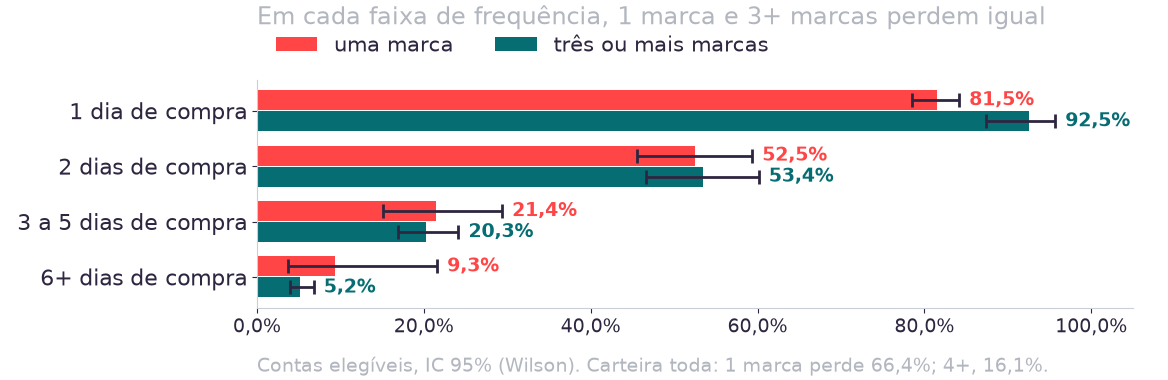
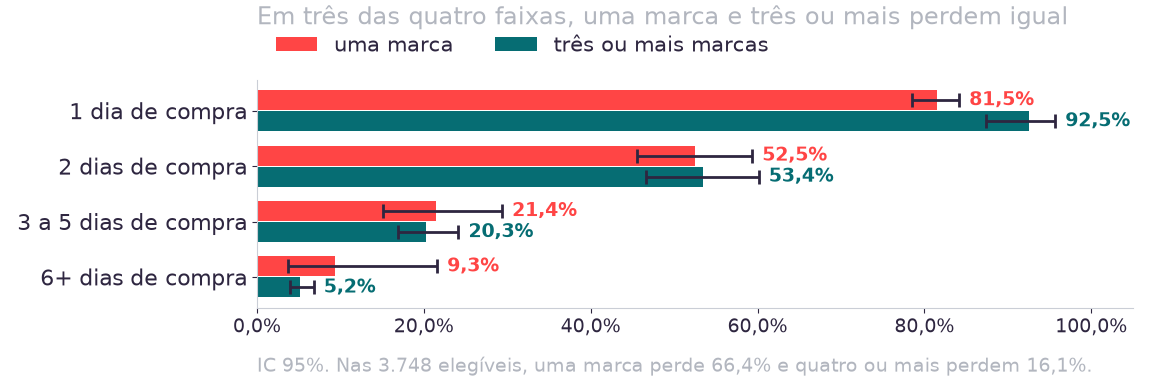
fix(aula04): correções da revisão final, leitura das estratificações, legendas e teste do clone

Changed region(s): [[0.2158, 0.9263, 0.9247, 0.9842], [0.2466, 0.0, 0.9247, 0.0868]]

diff --git a/materiais/aula04-material-de-apoio.html b/materiais/aula04-material-de-apoio.html
@@ -145,22 +145,22 @@
           </table>
         </div>
 
-        <p>A leitura direta é que quem mais perde compra menos vezes, com menos marcas e recebe
-        menos receita por conta. É perfil, e a palavra importa: a tabela descreve como os grupos
-        se diferenciam, sem dizer se essa diferença é a causa do churn ou se os dois fenômenos
-        compartilham uma terceira origem. A seção 4 mostra por que a diferença entre segmentos
-        não fecha o argumento sozinha.</p>
+        <p>A leitura direta é que quem mais perde compra menos vezes e com menos marcas, com uma
+        exceção: o setor público perde 58,1% com apenas 3 dias de compra e 3 marcas, o maior
+        índice da tabela mesmo sem o menor perfil de compra. É perfil, e a palavra importa: a
+        tabela descreve como os grupos se diferenciam, sem dizer se essa diferença é a causa do
+        churn ou se os dois fenômenos compartilham uma terceira origem. A seção 4 mostra por que a
+        diferença entre segmentos não fecha o argumento sozinha.</p>
 
         <p>A skill exige também declarar o que a tabela não mede. A conta mediana da carteira tem
         dois meses ativos em 24, e uma conta que comprou em um único mês não tem duas datas para
-        calcular intervalo entre compras. O intervalo mediano só existe para as contas com duas
-        ou mais datas distintas: das 3.748 elegíveis, essa condição restringe a coluna a 4.910
-        observações no conjunto ampliado usado no cálculo, um número que já mistura elegíveis e
-        não elegíveis porque o intervalo é calculado antes do corte de elegibilidade. Tratar
-        "periodicidade" como variável de entrada de um modelo, sem essa ressalva, produziria uma
-        coluna ausente para toda conta de compra única, e essa ausência carrega significado
-        próprio: marca uma conta com pouquíssima atividade, um fato sobre o comportamento da
-        conta e não uma falha de coleta.</p>
+        calcular intervalo entre compras. O intervalo mediano só existe para as contas com duas ou
+        mais datas distintas: na carteira inteira, de 8.282 contas, 4.910 satisfazem essa condição;
+        entre as 3.748 elegíveis, apenas 2.554 têm intervalo calculável, e as 1.194 restantes
+        compraram em um único dia dentro do painel. Tratar "periodicidade" como variável de entrada
+        de um modelo, sem essa ressalva, produziria uma coluna ausente para toda conta de compra
+        única, e essa ausência carrega significado próprio: marca uma conta com pouquíssima
+        atividade, um fato sobre o comportamento da conta e não uma falha de coleta.</p>
 
         <p>Duas colunas do cadastro completam o quadro sem entrar na tabela. O canal de aquisição
         tem um único valor distinto em toda a base, o que o torna inútil para qualquer corte por
@@ -346,13 +346,15 @@
           </table>
         </div>
 
-        <p>Em quatro dos cinco segmentos o Brasil tem prevalência menor ou igual à dos demais
-        países, e o único segmento em que a relação se inverte é o de contas globais, onde o
-        Brasil tem prevalência mais baixa. A explicação está na composição: 69,7% das contas
-        elegíveis do Brasil estão em mid market e setor público, os dois segmentos de prevalência
-        mais alta, contra 28,1% nos demais países. Uma comparação de Brasil contra o resto do
-        mundo sem controlar por segmento mede, em boa parte, a mistura de segmentos de cada
-        região: o efeito de país isolado é pequeno diante dessa composição.</p>
+        <p>Nos cinco segmentos, o Brasil tem prevalência menor que a dos demais países em dois
+        (contas globais, 18,6% contra 32,4%; grandes contas, 31,2% contra 35,6%) e maior em três
+        (mid market, 48,2% contra 45,0%; setor público, 60,1% contra 51,5%; small market, 72,6%
+        contra 41,0%). Nenhum desses cinco números isolados chega perto da diferença de 28,2%
+        contra 12,5% que separa o Brasil do México na carteira inteira, e a explicação está na
+        composição: 69,7% das contas elegíveis do Brasil estão em mid market e setor público, os
+        dois segmentos de prevalência mais alta, contra 28,1% nos demais países. Uma comparação de
+        Brasil contra o México sem controlar por segmento mede, em boa parte, a mistura de
+        segmentos de cada região, e o efeito de país isolado é pequeno diante dessa composição.</p>
 
         <div class="doc-nota">
           <p>O que a estratificação decide, na prática: uma diferença que
@@ -444,9 +446,9 @@
                alt="Barras horizontais de contas marcadas como perdidas por segmento nas elegíveis, com a linha de capacidade operacional em 138 planos por trimestre">
           <figcaption>Mid market soma 716 contas marcadas; grandes contas, 263; setor público,
           261; small market, 173; contas globais, 162. Cinco dos seis segmentos ultrapassam
-          sozinhos a capacidade operacional de 138 planos por trimestre, o que torna a priorização
-          entre eles uma decisão obrigatória: o volume de contas em risco decide sozinho quem entra
-          primeiro na fila.</figcaption>
+          sozinhos a capacidade operacional de 138 planos por trimestre, o que exige um critério
+          de priorização além da contagem: é essa a lacuna que o mapa de valor contra risco da
+          manhã preenche.</figcaption>
         </figure>
 
         <p>A segunda figura volta ao par de contas que abriu a aula.</p>
@@ -455,9 +457,11 @@
           <img src="../assets/img/aula04-par-pbl.png"
                alt="Séries mensais de receita de duas contas lado a lado, de abril de 2024 a março de 2026, com a linha do corte do rótulo em fevereiro de 2025">
           <figcaption>Conta A voltou a comprar depois de fevereiro de 2025 e segue na base; Conta
-          B parou de comprar em 2024 e foi marcada. As duas caem cerca de 90% da receita do
-          primeiro para o segundo semestre do painel, e nenhuma variável testada na aula separa
-          as duas antes do corte.</figcaption>
+          B parou de comprar em 2024 e foi marcada. As duas caem mais de 98% da receita do
+          primeiro para o segundo semestre do painel (99,1% na Conta A, 98,6% na Conta B). O
+          número de marcas separa o par (3 na Conta A, 1 na Conta B), mas a estratificação da
+          seção 4 mostra que esse sinal é um proxy da frequência de compra, e não teria sido um
+          preditor seguro antes de olhar a série mensal.</figcaption>
         </figure>
 
         <p>O par vem de um filtro sobre a base inteira: contas com receita acima de USD 50 mil no

diff --git a/aulas/aula04.html b/aulas/aula04.html
@@ -158,7 +158,7 @@
         <div class="slide-title-area">
           <div class="accent-bar"></div>
           <h2>A perda vai de 25,4% a 58,1% conforme o segmento</h2>
-          <p class="linha-contexto">3.748 elegíveis; medianas por segmento.</p>
+          <p class="linha-contexto">3.748 elegíveis; medianas por segmento. É perfil: a causa vem nos filtros seguintes.</p>
         </div>
         <table class="tabela-criterios compacta numerica">
           <thead><tr><th>Segmento</th><th>Contas</th><th>Prevalência</th><th>Receita</th><th>Dias</th><th>Marcas</th><th>Intervalo</th></tr></thead>
@@ -174,7 +174,7 @@
         <div class="fecho">
         <div class="faixa-conclusao">
           <span class="rotulo">Implicação</span>
-          <p>Quem mais perde compra menos e com menos marcas: é perfil, ainda não causa.</p>
+          <p>Setor público, com 3 dias e 3 marcas, perde 58,1%, mais que as estratégicas, com 8 dias, 4 marcas e 25,4%.</p>
         </div>
         </div>
         <div class="slide-footer">
@@ -550,13 +550,13 @@
         <img class="inteli-logo-header" src="../assets/img/inteli-exec-logo-positiva.png" alt="Logo Inteli">
         <div class="slide-title-area">
           <div class="accent-bar"></div>
-          <h2>Controlada pela frequência, o mix desaparece</h2>
+          <h2>Controlado pela frequência, o mix desaparece</h2>
         </div>
         <img class="figura" src="../assets/img/aula04-marcas-por-dias.png" alt="Barras pareadas de prevalência para contas de uma marca e de três ou mais marcas, em quatro faixas de dias de compra, com intervalos de confiança que se cruzam em três das quatro faixas">
         <div class="fecho">
         <div class="faixa-conclusao clara">
           <span class="rotulo">Implicação</span>
-          <p>1 dia: 81,5% contra 92,5%; 2 dias: 52,5% contra 53,4%; 3 a 5: 21,4% contra 20,3%. É a frequência que acompanha o rótulo.</p>
+          <p>Em três das quatro faixas os intervalos se cruzam: 2 dias, 52,5% contra 53,4%; 3 a 5, 21,4% contra 20,3%; 6+, 9,3% contra 5,2%. Na de 1 dia a relação inverte: 81,5% contra 92,5%.</p>
         </div>
         </div>
         <div class="slide-footer">
@@ -570,7 +570,7 @@
         <img class="inteli-logo-header" src="../assets/img/inteli-exec-logo-positiva.png" alt="Logo Inteli">
         <div class="slide-title-area">
           <div class="accent-bar"></div>
-          <h2>Brasil perde 28,2% da carteira, contra 12,5% do México</h2>
+          <h2>Segmento explica 28,2% no Brasil e 12,5% no México</h2>
           <p class="linha-contexto">69,7% das contas elegíveis do Brasil estão em mid market e setor público, contra 28,1% nos outros países.</p>
         </div>
         <table class="tabela-criterios compacta numerica">
@@ -646,7 +646,7 @@
                   data-incorrect-msg="Passar no ruído elimina o acaso, e só isso. A associação some quando controlada pela frequência de compra.">A campanha se sustenta: a diferença passou no teste de ruído.</li>
               <li data-letra="B"
                   data-correct="true"
-                  data-correct-msg="Dentro de cada faixa de dias de compra, uma marca e três ou mais perdem igual. O mix é proxy da frequência."
+                  data-correct-msg="Em três das quatro faixas de dias de compra, uma marca e três ou mais perdem igual; na faixa de 1 dia a relação inverte. O mix é proxy da frequência."
                   data-incorrect-msg="">É composição: quem compra mais vezes compra mais marcas.</li>
               <li data-letra="C"
                   data-correct="false"
@@ -691,7 +691,7 @@
         <img class="inteli-logo-header" src="../assets/img/inteli-exec-logo-positiva.png" alt="Logo Inteli">
         <div class="slide-title-area">
           <div class="accent-bar"></div>
-          <h2>Cinco perguntas pedem cinco formas de figura</h2>
+          <h2>Forma da figura pela pergunta</h2>
         </div>
         <table class="tabela-criterios compacta">
           <thead><tr><th>Pergunta</th><th>Forma</th><th>O que vai junto</th></tr></thead>
@@ -825,7 +825,7 @@
         <div class="slide-title-area">
           <p class="sobrelinha">Prática 4 &middot; 50 minutos &middot; Antigravity</p>
           <div class="accent-bar"></div>
-          <h2>As três seções que fecham o Artefato 1</h2>
+          <h2>Oficina do Artefato 1, seções 05, 06 e 07</h2>
         </div>
         <div class="pratica">
           <div class="pratica-trilho">

diff --git a/tools/montar_deck_aula04.py b/tools/montar_deck_aula04.py
@@ -145,8 +145,9 @@ SLIDES.append(conteudo(
     "            <tr><td>Estratégicas</td><td>71</td><td>25,4%</td><td>125.757</td><td>8</td><td>4</td><td>12</td></tr>\n"
     "          </tbody>\n"
     "        </table>\n",
-    contexto="3.748 elegíveis; medianas por segmento.",
-    conclusao="Quem mais perde compra menos e com menos marcas: é perfil, ainda não causa.",
+    contexto="3.748 elegíveis; medianas por segmento. É perfil: a causa vem nos filtros seguintes.",
+    conclusao="Setor público, com 3 dias e 3 marcas, perde 58,1%, mais que as estratégicas, "
+              "com 8 dias, 4 marcas e 25,4%.",
 ))
 
 # ---------------------------------------------------------------------------
@@ -326,17 +327,19 @@ SLIDES.append(conteudo(
 # 20. Figura real: mix desaparece por frequência
 # ---------------------------------------------------------------------------
 SLIDES.append(figura(
-    "Controlada pela frequência, o mix desaparece",
+    "Controlado pela frequência, o mix desaparece",
     "aula04-marcas-por-dias.png",
     "Barras pareadas de prevalência para contas de uma marca e de três ou mais marcas, em quatro faixas de dias de compra, com intervalos de confiança que se cruzam em três das quatro faixas",
-    conclusao="1 dia: 81,5% contra 92,5%; 2 dias: 52,5% contra 53,4%; 3 a 5: 21,4% contra 20,3%. É a frequência que acompanha o rótulo.",
+    conclusao="Em três das quatro faixas os intervalos se cruzam: 2 dias, 52,5% contra 53,4%; "
+              "3 a 5, 21,4% contra 20,3%; 6+, 9,3% contra 5,2%. Na de 1 dia a relação inverte: "
+              "81,5% contra 92,5%.",
 ))
 
 # ---------------------------------------------------------------------------
 # 21. Brasil inverte
 # ---------------------------------------------------------------------------
 SLIDES.append(conteudo(
-    "Brasil perde 28,2% da carteira, contra 12,5% do México",
+    "Segmento explica 28,2% no Brasil e 12,5% no México",
     '        <table class="tabela-criterios compacta numerica">\n'
     "          <thead><tr><th>Segmento (elegíveis)</th><th>Brasil</th><th>Prevalência</th><th>Outros países</th><th>Prevalência</th></tr></thead>\n"
     "          <tbody>\n"
@@ -385,7 +388,8 @@ SLIDES.append(quiz(
          "errado": "Passar no ruído elimina o acaso, e só isso. A associação some quando controlada pela frequência de compra."},
         {"texto": "É composição: quem compra mais vezes compra mais marcas.",
          "certa": True,
-         "certo": "Dentro de cada faixa de dias de compra, uma marca e três ou mais perdem igual. O mix é proxy da frequência.",
+         "certo": "Em três das quatro faixas de dias de compra, uma marca e três ou mais perdem "
+                  "igual; na faixa de 1 dia a relação inverte. O mix é proxy da frequência.",
          "errado": ""},
         {"texto": "Falta o qui-quadrado para decidir, e o p vai responder.",
          "certa": False, "certo": "",
@@ -407,7 +411,7 @@ SLIDES.append(secao("04", "A figura que decide", "Forma pela pergunta, título c
 # 25. Forma pela pergunta
 # ---------------------------------------------------------------------------
 SLIDES.append(conteudo(
-    "Cinco perguntas pedem cinco formas de figura",
+    "Forma da figura pela pergunta",
     '        <table class="tabela-criterios compacta">\n'
     "          <thead><tr><th>Pergunta</th><th>Forma</th><th>O que vai junto</th></tr></thead>\n"
     "          <tbody>\n"
@@ -471,7 +475,7 @@ SLIDES.append(secao("05", "Oficina do Artefato 1", "Seções 05, 06 e 07, das 14
 # 30. Oficina
 # ---------------------------------------------------------------------------
 SLIDES.append(pratica(
-    4, "As três seções que fecham o Artefato 1", 50,
+    4, "Oficina do Artefato 1, seções 05, 06 e 07", 50,
     "Em grupo, três estações de tempo marcado", "A pasta do grupo com as sete seções reexecutáveis",
     "Checkpoint às 15h30: cada mesa mostra a seção mais atrasada",
     [

diff --git a/tools/gerar_figuras_aula04.py b/tools/gerar_figuras_aula04.py
@@ -19,14 +19,13 @@ import matplotlib
 
 matplotlib.use("Agg")
 
-import matplotlib.pyplot as plt  # noqa: E402
 import numpy as np  # noqa: E402
 
 RAIZ = Path(__file__).resolve().parents[1]
 sys.path.insert(0, str(RAIZ))
 
 from tools.gerar_figuras_aula01 import (  # noqa: E402
-    BRANCO, CINZA_CLARO, CINZA_ESCURO, CINZA_MEDIO, CORAL, ROXO, VERDE_ESCURO,
+    CINZA_CLARO, CINZA_ESCURO, CINZA_MEDIO, CORAL, ROXO, VERDE_ESCURO,
 )
 from tools.gerar_figuras_aula03 import ROTULO_SEGMENTO, _estilo_eixo, _figura, _fmt, salvar  # noqa: E402
 from dados import analise_aula04 as an  # noqa: E402
@@ -171,9 +170,10 @@ def marcas_por_dias() -> Path:
     ax.set_xlim(0, 1.05)
     ax.set_xticks(np.linspace(0, 1, 6)); ax.set_xticklabels([_pct(v) for v in np.linspace(0, 1, 6)], fontsize=14)
     ax.legend(fontsize=15, frameon=False, loc="lower left", bbox_to_anchor=(0, 1.02), ncol=2)
-    ax.set_title("Em cada faixa de frequência, 1 marca e 3+ marcas perdem igual",
+    ax.set_title("Em três das quatro faixas, uma marca e três ou mais perdem igual",
                  fontsize=17, color=CINZA_ESCURO, loc="left", pad=40)
-    ax.text(0.0, -0.28, "Contas elegíveis, IC 95% (Wilson). Carteira toda: 1 marca perde 66,4%; 4+, 16,1%.",
+    ax.text(0.0, -0.28, "IC 95%. Nas 3.748 elegíveis, uma marca perde 66,4% e quatro ou mais "
+            "perdem 16,1%.",
             transform=ax.transAxes, fontsize=14, color=CINZA_ESCURO)
     return salvar(fig, "aula04-marcas-por-dias.png")
 
@@ -193,7 +193,7 @@ def par_pbl() -> Path:
     rotulos = [f"{MESES_CURTOS[m[5:]]}/{m[2:4]}" for m in meses]
     rotulos_mostrados = [r if i % 2 == 0 else "" for i, r in enumerate(rotulos)]
     fig = _figura(400)
-    ax = fig.add_axes([0.09, 0.22, 0.88, 0.5])
+    ax = fig.add_axes([0.09, 0.30, 0.88, 0.52])
     _estilo_eixo(ax)
     x = np.arange(len(meses))
     ax.bar(x - 0.2, s.conta_a, width=0.4, color=VERDE_ESCURO, label="Conta A, seguiu na base")
@@ -201,6 +201,13 @@ def par_pbl() -> Path:
     corte = meses.index("2025-02")
     ax.axvline(corte + 0.5, color=ROXO, linestyle="--", linewidth=1.6)
     ax.text(corte + 0.7, ax.get_ylim()[1] * 0.9, "corte do rótulo", fontsize=14, color=ROXO)
+    idx_abril = meses.index("2025-04")
+    valor_abril = p["series"]["conta_a"].iloc[idx_abril]
+    ax.annotate(f"abril de 2025: USD {valor_abril:,.0f}".replace(",", "."),
+                xy=(idx_abril - 0.2, s.conta_a.iloc[idx_abril]),
+                xytext=(idx_abril - 3.6, ax.get_ylim()[1] * 0.32),
+                fontsize=13, color=CINZA_ESCURO, ha="left",
+                arrowprops=dict(arrowstyle="->", color=ROXO, lw=1.6))
     ax.set_xticks(x); ax.set_xticklabels(rotulos_mostrados, fontsize=14, rotation=45, ha="right")
     ax.set_ylabel("receita mensal, USD mil", fontsize=14)
     ax.legend(fontsize=15, frameon=False, loc="lower left", bbox_to_anchor=(0, 1.03), ncol=2)
@@ -209,7 +216,7 @@ def par_pbl() -> Path:
     a, b = p["conta_a"], p["conta_b"]
     marcas_a, dias_a = int(a["marcas"]), int(a["dias_de_compra"])
     marcas_b, dias_b = int(b["marcas"]), int(b["dias_de_compra"])
-    ax.text(0.0, -0.34, f"GLOBAL ACCOUNT, Brasil. Conta A: {marcas_a} "
+    ax.text(0.0, -0.50, f"GLOBAL ACCOUNT, Brasil. Conta A: {marcas_a} "
             f"{_plural(marcas_a, 'marca', 'marcas')}, {dias_a} dias de compra. "
             f"Conta B: {marcas_b} {_plural(marcas_b, 'marca', 'marcas')}, {dias_b} dias.",
             transform=ax.transAxes, fontsize=14, color=CINZA_ESCURO)

diff --git a/tools/tests/test_skills_aula04.py b/tools/tests/test_skills_aula04.py
@@ -14,6 +14,11 @@ from tools.check_retorica import analisar  # noqa: E402
 
 CLONE = RAIZ / "inteli-pos-2026-2a-eda"
 
+pytestmark = pytest.mark.skipif(
+    not CLONE.exists(),
+    reason="inteli-pos-2026-2a-eda/ ausente: repositório de clone da turma, não versionado no acervo",
+)
+
 PARES = {
     "perfil-por-segmento": (RAIZ / "materiais" / "skill-perfil-por-segmento.md",
                             CLONE / "skills" / "perfil-por-segmento.md"),

diff --git a/tools/tests/test_deck_aula04.py b/tools/tests/test_deck_aula04.py
@@ -203,7 +203,7 @@ def test_o_deck_cita_os_numeros_travados(html):
         "81,5", "92,5", "52,5", "53,4", "21,4", "20,3",
         "28,2", "12,5", "18,6", "32,4", "72,6", "41,0", "69,7", "28,1",
         "59,7", "1.560",
-        "66", "63", "716", "263", "261", "173", "162", "138",
+        "66 contas", "63 seguem", "716", "263", "261", "173", "162", "138",
     ):
         assert numero in html, numero
 

diff --git a/PLANEJAMENTO_AULA_A_AULA.md b/PLANEJAMENTO_AULA_A_AULA.md
@@ -443,8 +443,9 @@ condução.
 
 O planejamento original previa, para a S4, um gráfico de valor em risco por
 probabilidade com a linha de capacidade operacional desenhada. A probabilidade
-por conta só existe depois do modelo (UC2), então o gráfico entra com a
-receita da conta no eixo e a linha de capacidade desenhada, sem probabilidade.
+por conta só existe depois do modelo (UC2), então o gráfico entra com as
+contas marcadas como perdidas por segmento no eixo e a linha de capacidade
+operacional desenhada, sem probabilidade.
 A PBL original falava em "ordem de deterioração" (receita, mix, cadência), que
 o painel sintético tinha e a base oficial não tem alinhado; o par da PBL passa
 a ser escolhido pela queda de receita entre semestres.

diff --git a/materiais/skill-figura-que-decide.md b/materiais/skill-figura-que-decide.md
@@ -18,9 +18,10 @@ A forma da figura é escolhida pela pergunta, nunca pelo gosto:
 
 ## Passo 2: o título é a conclusão, com o número dentro
 
-O título da figura declara o que ela prova, com o número que prova. "Uma
-marca perde 66,4% e quatro ou mais perdem 16,1%" é título. "Prevalência por
-número de marcas" é rótulo de eixo.
+O título da figura declara o que ela prova, com o número que prova e a
+população sobre a qual ele foi medido. "Nas contas elegíveis, uma marca perde
+66,4% e quatro ou mais perdem 16,1%" é título. "Prevalência por número de
+marcas" é rótulo de eixo.
 
 ## Passo 3: desenhe o ruído e o limite
 
